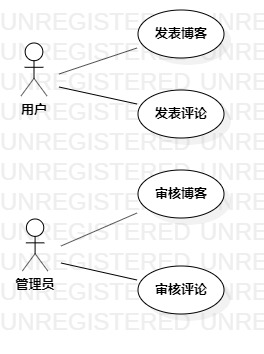
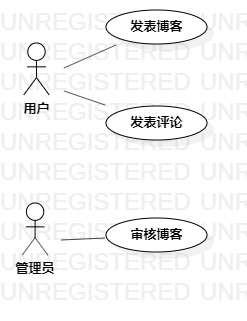
四个功能修改为三个功能
四个功能修改为三个功能

diff --git a/students/1714080902216/lab2.md b/students/1714080902216/lab2.md
@@ -15,10 +15,10 @@
 
 1. 确定选题（博客系统）
 2. 确定角色（用户，管理员）
-3. 确定用户功能（发表博客、发表评论），管理员功能（审核博客、审核评论）
-4. 编写上述四个功能点的描述
-5. 为上述四个功能点画出用例图
-6. 编写上述四个功能的条例规约
+3. 确定用户功能（发表博客、发表评论），管理员功能（审核博客）
+4. 编写上述三个功能点的描述
+5. 为上述三个功能点画出用例图
+6. 编写上述三个功能的条例规约
 
 ## 4. 实验结果
 
@@ -28,9 +28,6 @@
 2. 用户发表评论：用户进行登录后，在查看任意一篇博文时，可点击评论按钮，输入评论所需信息后，点击发布评论按钮，等待服务器相应成功后即完成发布评论操作；
 
 3. 管理员审核博客：管理员进行登录后，可选择任意一篇已发表的博文进行审核，在根据相关规定对博文内容进行审核后，在页面相应位置填写审核结果信息并进行提交，待服务器相应成功后即完成博客审核操作。
-
-4. 管理员审核评论：管理员进行登录后，可选择任意一条已发布的评论进行审核，在根据相关规定对评论内容进行审核后，在页面相应位置填写审核结果信息并进行提交，待服务器相应成功后即完成评论审核操作。
-
 
 ![用例图](./Lab2_UseCaseDiagram.jpg)  
 图1：博客系统的用例图
@@ -74,15 +71,3 @@
 ~ | 3.管理员在审核页面输入审核结果信息 |
 ~ | 4.系统保存审核结果信息 |
 扩展流程 | 4.1 系统检查发现审核结果缺少必要信息，提示“必要信息没有填写完整” | 审核博客失败
-
-## 表4：管理员审核评论规约
-用例编号 | UC04 | 备注 |
-:- | :- | :- | 
-用例名称 | 审核评论 | 
-前置条件 | 管理员已登录 | 必要
-后置条件 | 服务器已保存审核结果信息 | 必要
-基本流程 | 1.管理员选择某一评论进行审核 |
-~ | 2.系统跳转审核评论页面 |
-~ | 3.管理员在审核页面输入审核结果信息 |
-~ | 4.系统保存审核结果信息 |
-扩展流程 | 4.1 系统检查发现审核结果缺少必要信息，提示“必要信息没有填写完整” | 审核评论失败
